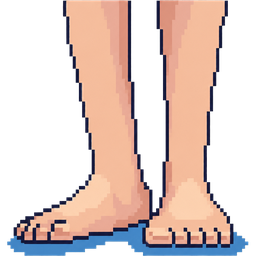
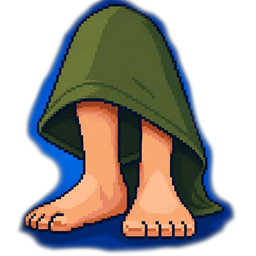
Full re-theme to the dark starry-navy brand mockup
Downloaded the mascot icon, banner, and token-image mockup via
Google Drive links (which have worked reliably; inline chat pastes
still don't produce retrievable files). The mascot icon had genuine
alpha transparency this time.

- New dark navy/blue palette replaces the light sky-blue theme
  throughout: Navbar, Hero, FeatureGrid, OriginsSection, TokenInfo,
  CommunitySection, FAQ, and Footer all updated, alternating between
  two dark shades (navy/navyblue) for section rhythm.
- PixelButton and focus-visible outlines reworked for contrast against
  dark backgrounds (borders/outlines that were navy-on-light now use
  offwhite, button shadows use a near-black tone instead of navy so
  they still read as shadows against the navy page background).
- New .hero-glow radial background and Sparkle decoration component
  add the mockup's starry/glowing mood to the hero.
- The hooded-feet mascot (public/images/mascot.png) replaces the old
  feet-pair illustration as the favicon, nav logo, footer logo,
  community-section art, and "Legendary Origins" feature icon.
- Open Graph/Twitter card image rebuilt from the real brand banner
  (letterboxed to 1200x630) instead of a hand-drawn SVG placeholder,
  which also fixes poor SVG support in social link previews.
- Removed the word "relaunch" from all copy per feedback.

diff --git a/components/Hero.tsx b/components/Hero.tsx
@@ -4,6 +4,16 @@ import { useEffect, useRef } from "react";
 import { motion, useReducedMotion } from "framer-motion";
 import { tokenConfig } from "@/config/token";
 import PixelButton from "./PixelButton";
+import Sparkle from "./Sparkle";
+
+const SPARKLES = [
+  { top: "10%", left: "6%", size: "h-3 w-3" },
+  { top: "22%", left: "42%", size: "h-2 w-2" },
+  { top: "8%", left: "78%", size: "h-3 w-3" },
+  { top: "60%", left: "3%", size: "h-2 w-2" },
+  { top: "72%", left: "48%", size: "h-2 w-2" },
+  { top: "45%", left: "92%", size: "h-3 w-3" },
+];
 
 export default function Hero() {
   const reduceMotion = useReducedMotion();
@@ -21,10 +31,14 @@ export default function Hero() {
   }, []);
 
   return (
-    <section id="home" className="relative overflow-hidden border-b-2 border-feet-navy bg-feet-sky">
-      <div className="mx-auto grid max-w-6xl items-center gap-10 px-4 py-16 sm:px-6 md:grid-cols-2 md:py-24">
+    <section id="home" className="hero-glow relative overflow-hidden border-b-2 border-feet-blue">
+      {SPARKLES.map((s, i) => (
+        <Sparkle key={i} className={`pixel-star pointer-events-none absolute ${s.size}`} style={{ top: s.top, left: s.left }} />
+      ))}
+
+      <div className="relative mx-auto grid max-w-6xl items-center gap-10 px-4 py-16 sm:px-6 md:grid-cols-2 md:py-24">
         <div>
-          <p className="font-pixel text-[10px] uppercase tracking-widest text-feet-navyblue">
+          <p className="font-pixel text-[10px] uppercase tracking-widest text-feet-blue">
             The legend returns
           </p>
 
@@ -32,9 +46,9 @@ export default function Hero() {
             $FEETPIX
           </h1>
 
-          <p className="mt-5 max-w-md text-base text-feet-navyblue sm:text-lg">
+          <p className="mt-5 max-w-md text-base text-feet-skylight sm:text-lg">
             The official token of the legendary{" "}
-            <strong className="text-feet-navy">FEETPIX NFT Collection</strong>.
+            <strong className="text-feet-blue">FEETPIX NFT Collection</strong>.
           </p>
 
           <div className="mt-8 flex flex-wrap gap-4">
@@ -51,7 +65,7 @@ export default function Hero() {
             </PixelButton>
           </div>
 
-          <div className="mt-7 inline-flex items-center gap-2 border-2 border-feet-navy bg-feet-offwhite px-3 py-2 font-pixel text-[9px] uppercase text-feet-navy">
+          <div className="mt-7 inline-flex items-center gap-2 border-2 border-feet-green bg-feet-navy px-3 py-2 font-pixel text-[9px] uppercase text-feet-green">
             <span className="h-2.5 w-2.5 shrink-0 bg-feet-green" aria-hidden="true" />
             Live on {tokenConfig.chain}
           </div>
@@ -63,7 +77,7 @@ export default function Hero() {
           animate={reduceMotion ? undefined : { opacity: 1, y: 0 }}
           transition={{ duration: 0.5, ease: "easeOut" }}
         >
-          <div className="w-full max-w-md border-2 border-feet-navy bg-feet-offwhite p-2 shadow-[6px_6px_0_0_rgba(16,27,61,0.25)]">
+          <div className="w-full max-w-md border-2 border-feet-blue bg-feet-navy p-2 shadow-[6px_6px_0_0_rgba(6,10,24,0.6)]">
             <video
               ref={videoRef}
               autoPlay

diff --git a/components/Navbar.tsx b/components/Navbar.tsx
@@ -11,19 +11,19 @@ export default function Navbar() {
   const [open, setOpen] = useState(false);
 
   return (
-    <header className="sticky top-0 z-50 border-b-2 border-feet-navy bg-feet-skylight/95 backdrop-blur">
+    <header className="sticky top-0 z-50 border-b-2 border-feet-blue bg-feet-navy/95 backdrop-blur">
       <div className="mx-auto flex max-w-6xl items-center justify-between gap-4 px-4 py-3 sm:px-6">
         <a href="#home" className="flex items-center gap-2 focus-pixel" onClick={() => setOpen(false)}>
-          <Image src="/images/feet-pair.png" alt="FEETPIX" width={36} height={36} className="h-9 w-auto shrink-0 object-contain" priority unoptimized />
-          <span className="pixel-heading text-[11px] text-feet-navy sm:text-sm">{siteConfig.name}</span>
+          <Image src="/images/mascot.png" alt="FEETPIX" width={36} height={36} className="h-9 w-auto shrink-0 object-contain" priority unoptimized />
+          <span className="pixel-heading text-[11px] text-feet-offwhite sm:text-sm">{siteConfig.name}</span>
         </a>
 
-        <nav className="hidden items-center gap-7 font-pixel text-[10px] uppercase text-feet-navyblue md:flex">
+        <nav className="hidden items-center gap-7 font-pixel text-[10px] uppercase text-feet-skylight md:flex">
           {siteConfig.nav.map((item) => (
             <a
               key={item.href}
               href={item.href}
-              className="focus-pixel relative py-1 transition-colors hover:text-feet-navy after:absolute after:-bottom-1 after:left-0 after:h-[3px] after:w-0 after:bg-feet-orange after:transition-[width] after:duration-150 hover:after:w-full"
+              className="focus-pixel relative py-1 transition-colors hover:text-feet-offwhite after:absolute after:-bottom-1 after:left-0 after:h-[3px] after:w-0 after:bg-feet-orange after:transition-[width] after:duration-150 hover:after:w-full"
             >
               {item.label}
             </a>
@@ -44,7 +44,7 @@ export default function Navbar() {
 
         <button
           type="button"
-          className="focus-pixel border-2 border-feet-navy bg-feet-offwhite p-2 text-feet-navy md:hidden"
+          className="focus-pixel border-2 border-feet-offwhite bg-feet-navy p-2 text-feet-offwhite md:hidden"
           aria-label={open ? "Close menu" : "Open menu"}
           aria-expanded={open}
           onClick={() => setOpen((v) => !v)}
@@ -54,8 +54,8 @@ export default function Navbar() {
       </div>
 
       {open && (
-        <nav className="border-t-2 border-feet-navy bg-feet-skylight px-4 py-4 md:hidden">
-          <ul className="flex flex-col gap-4 font-pixel text-[11px] uppercase text-feet-navyblue">
+        <nav className="border-t-2 border-feet-blue bg-feet-navy px-4 py-4 md:hidden">
+          <ul className="flex flex-col gap-4 font-pixel text-[11px] uppercase text-feet-skylight">
             {siteConfig.nav.map((item) => (
               <li key={item.href}>
                 <a href={item.href} className="focus-pixel block" onClick={() => setOpen(false)}>

diff --git a/components/PixelButton.tsx b/components/PixelButton.tsx
@@ -5,13 +5,13 @@ type Size = "md" | "sm";
 
 const variantClasses: Record<Variant, string> = {
   primary:
-    "bg-feet-orange text-feet-navy shadow-[4px_4px_0_0_#101B3D] hover:shadow-[2px_2px_0_0_#101B3D] active:shadow-[1px_1px_0_0_#101B3D]",
+    "bg-feet-orange text-feet-navy shadow-[4px_4px_0_0_#060A18] hover:shadow-[2px_2px_0_0_#060A18] active:shadow-[1px_1px_0_0_#060A18]",
   secondary:
-    "bg-feet-offwhite text-feet-navy shadow-[4px_4px_0_0_#101B3D] hover:shadow-[2px_2px_0_0_#101B3D] active:shadow-[1px_1px_0_0_#101B3D]",
+    "bg-feet-offwhite text-feet-navy shadow-[4px_4px_0_0_#060A18] hover:shadow-[2px_2px_0_0_#060A18] active:shadow-[1px_1px_0_0_#060A18]",
   ghost:
-    "bg-transparent text-feet-navy shadow-[3px_3px_0_0_#101B3D] hover:shadow-[1px_1px_0_0_#101B3D] active:shadow-[0px_0px_0_0_#101B3D]",
+    "bg-transparent text-feet-offwhite shadow-[3px_3px_0_0_#060A18] hover:shadow-[1px_1px_0_0_#060A18] active:shadow-[0px_0px_0_0_#060A18]",
   social:
-    "bg-feet-blue text-white shadow-[4px_4px_0_0_#101B3D] hover:shadow-[2px_2px_0_0_#101B3D] active:shadow-[1px_1px_0_0_#101B3D]",
+    "bg-feet-blue text-white shadow-[4px_4px_0_0_#060A18] hover:shadow-[2px_2px_0_0_#060A18] active:shadow-[1px_1px_0_0_#060A18]",
 };
 
 const sizeClasses: Record<Size, string> = {
@@ -38,7 +38,7 @@ export default function PixelButton<T extends ElementType = "button">({
 
   return (
     <Component
-      className={`focus-pixel inline-flex items-center justify-center border-2 border-feet-navy font-pixel uppercase tracking-wide transition-[box-shadow,transform] duration-100 hover:translate-x-[2px] hover:translate-y-[2px] active:translate-x-[4px] active:translate-y-[4px] disabled:cursor-not-allowed disabled:opacity-50 disabled:hover:translate-x-0 disabled:hover:translate-y-0 disabled:hover:shadow-[4px_4px_0_0_#101B3D] ${variantClasses[variant]} ${sizeClasses[size]} ${className}`}
+      className={`focus-pixel inline-flex items-center justify-center border-2 border-feet-offwhite font-pixel uppercase tracking-wide transition-[box-shadow,transform] duration-100 hover:translate-x-[2px] hover:translate-y-[2px] active:translate-x-[4px] active:translate-y-[4px] disabled:cursor-not-allowed disabled:opacity-50 disabled:hover:translate-x-0 disabled:hover:translate-y-0 disabled:hover:shadow-[4px_4px_0_0_#060A18] ${variantClasses[variant]} ${sizeClasses[size]} ${className}`}
       {...props}
     >
       {children}

diff --git a/components/FAQ.tsx b/components/FAQ.tsx
@@ -8,10 +8,10 @@ export default function FAQ() {
   const [openIndex, setOpenIndex] = useState<number | null>(0);
 
   return (
-    <section id="faq" className="border-b-2 border-feet-navy bg-feet-offwhite">
+    <section id="faq" className="border-b-2 border-feet-navy bg-feet-navyblue">
       <div className="mx-auto max-w-3xl px-4 py-16 sm:px-6 md:py-24">
         <p className="text-center font-pixel text-[10px] uppercase tracking-widest text-feet-blue">FAQ</p>
-        <h2 className="pixel-heading mt-4 text-center text-xl text-feet-navy sm:text-2xl">
+        <h2 className="pixel-heading mt-4 text-center text-xl text-feet-offwhite sm:text-2xl">
           Frequently Asked Questions
         </h2>
 
@@ -21,12 +21,12 @@ export default function FAQ() {
             const panelId = `faq-panel-${index}`;
             const buttonId = `faq-button-${index}`;
             return (
-              <div key={item.question} className="border-2 border-feet-navy bg-feet-skylight">
+              <div key={item.question} className="border-2 border-feet-blue bg-feet-navy">
                 <h3>
                   <button
                     id={buttonId}
                     type="button"
-                    className="focus-pixel flex w-full items-center justify-between gap-4 px-5 py-4 text-left font-pixel text-[11px] uppercase text-feet-navy"
+                    className="focus-pixel flex w-full items-center justify-between gap-4 px-5 py-4 text-left font-pixel text-[11px] uppercase text-feet-offwhite"
                     aria-expanded={isOpen}
                     aria-controls={panelId}
                     onClick={() => setOpenIndex(isOpen ? null : index)}
@@ -39,8 +39,8 @@ export default function FAQ() {
                   </button>
                 </h3>
                 {isOpen && (
-                  <div id={panelId} role="region" aria-labelledby={buttonId} className="border-t-2 border-feet-navy bg-feet-offwhite px-5 py-4">
-                    <p className="text-sm leading-relaxed text-feet-navyblue">{item.answer}</p>
+                  <div id={panelId} role="region" aria-labelledby={buttonId} className="border-t-2 border-feet-blue bg-feet-navyblue px-5 py-4">
+                    <p className="text-sm leading-relaxed text-feet-skylight">{item.answer}</p>
                   </div>
                 )}
               </div>

diff --git a/components/OriginsSection.tsx b/components/OriginsSection.tsx
@@ -2,28 +2,28 @@ import { tokenConfig } from "@/config/token";
 
 export default function OriginsSection() {
   return (
-    <section id="origins" className="border-b-2 border-feet-navy bg-feet-offwhite">
+    <section id="origins" className="border-b-2 border-feet-navy bg-feet-navy">
       <div className="mx-auto max-w-3xl px-4 py-16 sm:px-6 md:py-24">
         <p className="font-pixel text-[10px] uppercase tracking-widest text-feet-blue">About &amp; Origins</p>
-        <h2 className="pixel-heading mt-4 text-xl text-feet-navy sm:text-2xl">
+        <h2 className="pixel-heading mt-4 text-xl text-feet-offwhite sm:text-2xl">
           From NFT History to Onchain Legend
         </h2>
 
-        <p className="mt-6 text-base leading-relaxed text-feet-navyblue">
+        <p className="mt-6 text-base leading-relaxed text-feet-skylight">
           Before profile-picture collections flooded the timeline, there was FEETPIX — strange,
           simple, instantly recognizable and impossible to forget.
         </p>
-        <p className="mt-4 text-base leading-relaxed text-feet-navyblue">
+        <p className="mt-4 text-base leading-relaxed text-feet-skylight">
           Now the collection returns as $FEETPIX, bringing its original pixel identity into a
           new onchain era.
         </p>
 
-        <div className="mt-8 flex flex-wrap gap-6 font-pixel text-[10px] uppercase text-feet-navy">
+        <div className="mt-8 flex flex-wrap gap-6 font-pixel text-[10px] uppercase text-feet-offwhite">
           <a
             href={tokenConfig.openseaUrl}
             target="_blank"
             rel="noopener noreferrer"
-            className="focus-pixel border-b-2 border-feet-navy pb-1 hover:text-feet-blue"
+            className="focus-pixel border-b-2 border-feet-offwhite pb-1 hover:text-feet-blue"
           >
             Explore the original collection →
           </a>
@@ -31,7 +31,7 @@ export default function OriginsSection() {
             href={tokenConfig.twitterUrl || "#"}
             target="_blank"
             rel="noopener noreferrer"
-            className="focus-pixel border-b-2 border-feet-navy pb-1 hover:text-feet-blue"
+            className="focus-pixel border-b-2 border-feet-offwhite pb-1 hover:text-feet-blue"
           >
             Join the community →
           </a>

diff --git a/components/TokenInfo.tsx b/components/TokenInfo.tsx
@@ -21,21 +21,21 @@ const fields: Array<{ label: string; value: string }> = [
 
 export default function TokenInfo() {
   return (
-    <section id="token" className="border-b-2 border-feet-navy bg-feet-sky">
+    <section id="token" className="border-b-2 border-feet-navy bg-feet-navyblue">
       <div className="mx-auto max-w-4xl px-4 py-16 sm:px-6 md:py-24">
-        <p className="text-center font-pixel text-[10px] uppercase tracking-widest text-feet-navyblue">
+        <p className="text-center font-pixel text-[10px] uppercase tracking-widest text-feet-blue">
           Tokenomics
         </p>
-        <h2 className="pixel-heading mt-4 text-center text-xl text-feet-navy sm:text-2xl">
+        <h2 className="pixel-heading mt-4 text-center text-xl text-feet-offwhite sm:text-2xl">
           Token Info
         </h2>
 
-        <div className="mt-10 border-2 border-feet-navy bg-feet-skylight p-6 shadow-[6px_6px_0_0_#101B3D] sm:p-8">
+        <div className="mt-10 border-2 border-feet-blue bg-feet-navy p-6 shadow-[6px_6px_0_0_#060A18] sm:p-8">
           <dl className="grid grid-cols-1 gap-6 sm:grid-cols-2 lg:grid-cols-3 xl:grid-cols-5">
             {fields.map((field) => (
-              <div key={field.label} className="border-2 border-feet-navy bg-feet-offwhite px-4 py-3">
-                <dt className="font-pixel text-[8px] uppercase text-feet-navyblue">{field.label}</dt>
-                <dd className="mt-2 text-sm font-semibold text-feet-navy">{field.value}</dd>
+              <div key={field.label} className="border-2 border-feet-blue bg-feet-navyblue px-4 py-3">
+                <dt className="font-pixel text-[8px] uppercase text-feet-skylight">{field.label}</dt>
+                <dd className="mt-2 text-sm font-semibold text-feet-offwhite">{field.value}</dd>
               </div>
             ))}
           </dl>
@@ -62,7 +62,7 @@ export default function TokenInfo() {
             )}
           </div>
 
-          <p className="mt-6 text-center text-xs text-feet-navyblue">
+          <p className="mt-6 text-center text-xs text-feet-skylight">
             $FEETPIX is not yet tradable. This panel will activate live links the moment the
             contract is deployed — always verify the address on this page before you trade.
           </p>

diff --git a/app/globals.css b/app/globals.css
@@ -6,6 +6,7 @@
   --color-feet-blue: #4f9cd3;
   --color-feet-navyblue: #123d71;
   --color-feet-navy: #101b3d;
+  --color-feet-shadow: #060a18;
   --color-feet-skin: #f0b596;
   --color-feet-skinlight: #ffd0ad;
   --color-feet-coin: #ffd42a;
@@ -28,13 +29,26 @@ html {
 }
 
 body {
-  background: var(--color-feet-offwhite);
-  color: var(--color-feet-navy);
+  background: var(--color-feet-navy);
+  color: var(--color-feet-offwhite);
   font-family: var(--font-body);
 }
 
 * {
   border-color: var(--color-feet-navy);
+}
+
+/* Radial blue glow over the dark navy background, matching the mockup's hero treatment. */
+.hero-glow {
+  background:
+    radial-gradient(ellipse 70% 60% at 60% 40%, rgba(79, 156, 211, 0.45), transparent 70%),
+    var(--color-feet-navy);
+}
+
+/* Small four-point sparkle, positioned absolutely by the caller. */
+.pixel-star {
+  color: var(--color-feet-offwhite);
+  opacity: 0.85;
 }
 
 ::selection {
@@ -68,6 +82,6 @@ body {
 }
 
 .focus-pixel:focus-visible {
-  outline: 3px solid var(--color-feet-navy);
+  outline: 3px solid var(--color-feet-offwhite);
   outline-offset: 3px;
 }

diff --git a/components/Footer.tsx b/components/Footer.tsx
@@ -8,7 +8,7 @@ export default function Footer() {
     <footer className="bg-feet-navy text-feet-skylight">
       <div className="mx-auto flex max-w-6xl flex-col gap-6 px-4 py-10 sm:px-6 md:flex-row md:items-center md:justify-between">
         <a href="#home" className="focus-pixel flex items-center gap-2">
-          <Image src="/images/feet-pair.png" alt="" width={28} height={28} className="h-7 w-auto object-contain" unoptimized />
+          <Image src="/images/mascot.png" alt="" width={28} height={28} className="h-7 w-auto object-contain" unoptimized />
           <span className="pixel-heading text-[10px] text-feet-offwhite">{siteConfig.name}</span>
         </a>
 

diff --git a/app/layout.tsx b/app/layout.tsx
@@ -23,14 +23,14 @@ export const metadata: Metadata = {
     description:
       "The official $FEETPIX token of the legendary FEETPIX NFT Collection, now entering a new era on Robinhood Chain.",
     type: "website",
-    images: ["/images/social-preview.svg"],
+    images: ["/images/social-preview.png"],
   },
   twitter: {
     card: "summary_large_image",
     title: "$FEETPIX — The Legendary NFT Collection Returns Onchain",
     description:
       "The official $FEETPIX token of the legendary FEETPIX NFT Collection, now entering a new era on Robinhood Chain.",
-    images: ["/images/social-preview.svg"],
+    images: ["/images/social-preview.png"],
   },
 };
 

diff --git a/components/Sparkle.tsx b/components/Sparkle.tsx
@@ -1,0 +1,13 @@
+import { CSSProperties } from "react";
+
+export default function Sparkle({ className, style }: { className?: string; style?: CSSProperties }) {
+  return (
+    <svg viewBox="0 0 12 12" className={className} style={style} shapeRendering="crispEdges" aria-hidden="true">
+      <rect x="5" y="0" width="2" height="3" fill="currentColor" />
+      <rect x="5" y="9" width="2" height="3" fill="currentColor" />
+      <rect x="0" y="5" width="3" height="2" fill="currentColor" />
+      <rect x="9" y="5" width="3" height="2" fill="currentColor" />
+      <rect x="5" y="5" width="2" height="2" fill="currentColor" />
+    </svg>
+  );
+}

diff --git a/components/CommunitySection.tsx b/components/CommunitySection.tsx
@@ -8,7 +8,7 @@ export default function CommunitySection() {
   return (
     <section className="border-b-2 border-feet-navy bg-feet-navy">
       <div className="mx-auto flex max-w-4xl flex-col items-center gap-6 px-4 py-16 text-center sm:px-6 md:py-20">
-        <Image src="/images/feet-pair.png" alt="" width={80} height={80} className="h-20 w-auto object-contain" unoptimized />
+        <Image src="/images/mascot.png" alt="" width={80} height={80} className="h-20 w-auto object-contain" unoptimized />
         <h2 className="pixel-heading text-xl text-feet-offwhite sm:text-2xl">
           Join the FEETPIX Movement
         </h2>

diff --git a/components/FeatureGrid.tsx b/components/FeatureGrid.tsx
@@ -2,7 +2,7 @@ import Image from "next/image";
 import { features } from "@/config/site";
 
 const iconMap = {
-  feet: "/images/feet-pair.png",
+  feet: "/images/mascot.png",
   coin: "/images/coin.png",
   chart: "/images/chart.png",
   trophy: "/images/trophy.png",
